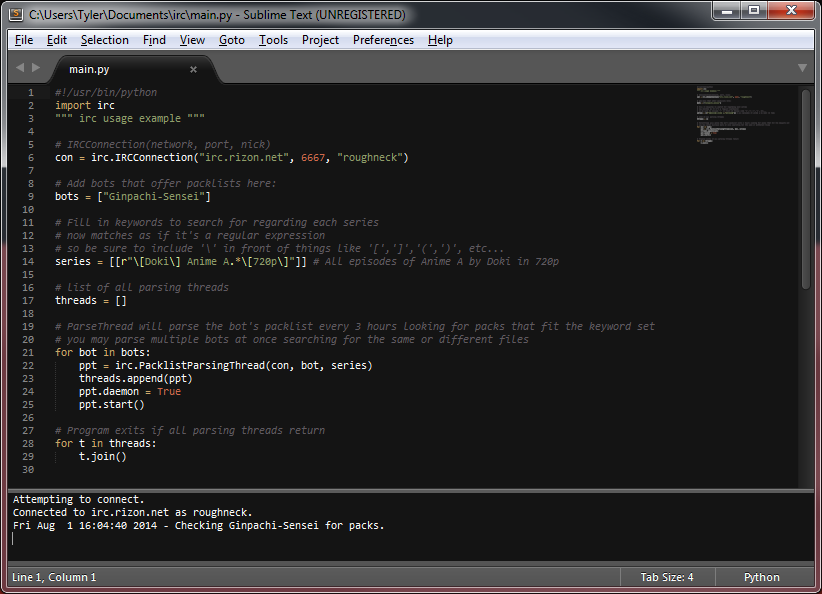
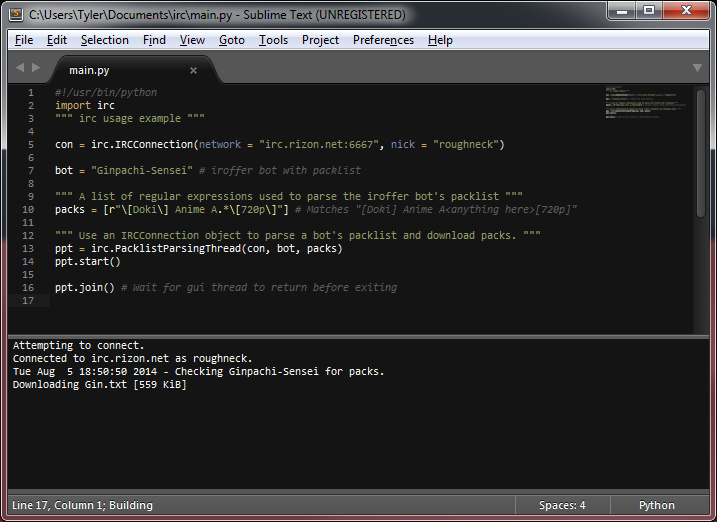
Reworked some things to make usage simpler.

Changed region(s): [[0.0, 0.0, 1.0, 1.0], [0.6137, 0.2452, 0.7057, 0.3065], [0.5523, 0.2759, 0.583, 0.3065]]

diff --git a/main.py b/main.py
@@ -2,28 +2,15 @@
 import irc
 """ irc usage example """
 
-# IRCConnection(network, port, nick)
-con = irc.IRCConnection("irc.rizon.net", 6667, "roughneck")
+con = irc.IRCConnection(network = "irc.rizon.net:6667", nick = "roughneck")
 
-# Add bots that offer packlists here:
-bots = ["Ginpachi-Sensei"]
+bot = "Ginpachi-Sensei" # iroffer bot with packlist
 
-# Fill in keywords to search for regarding each series
-# now matches as if it's a regular expression
-# so be sure to include '\' in front of things like '[',']','(',')', etc...
-series = [[r"\[Doki\] Anime A.*\[720p\]"]] # All episodes of Anime A by Doki in 720p
+""" A list of regular expressions used to parse the iroffer bot's packlist """
+packs = [r"\[Doki\] Anime A.*\[720p\]"] # Matches "[Doki] Anime A<anything here>[720p]"
 
-# list of all parsing threads
-threads = []
+""" Use an IRCConnection object to parse a bot's packlist and download packs. """
+ppt = irc.PacklistParsingThread(con, bot, packs)
+ppt.start()
 
-# ParseThread will parse the bot's packlist every 3 hours looking for packs that fit the keyword set
-# you may parse multiple bots at once searching for the same or different files
-for bot in bots:
-    ppt = irc.PacklistParsingThread(con, bot, series)
-    threads.append(ppt)
-    ppt.daemon = True
-    ppt.start()
-
-# Program exits if all parsing threads return
-for t in threads:
-    t.join()
+ppt.join() # Wait for gui thread to return before exiting

diff --git a/main-gui.py b/main-gui.py
@@ -2,23 +2,16 @@
 import irc
 """ irc usage example """
 
-# IRCConnection(network, port, nick, gui)
-con = irc.IRCConnection("irc.rizon.net", 6667, "roughneck", gui = True)
+con = irc.IRCConnection(network = "irc.rizon.net:6667", nick = "roughneck", gui = True)
 
-# Add bots that offer packlists here:
-bots = ["Ginpachi-Sensei"]
+bot = "Ginpachi-Sensei" # iroffer bot with packlist
 
-# Fill in keywords to search for regarding each series
-# now matches as if it's a regular expression
-# so be sure to include '\' in front of things like '[',']','(',')', etc...
-series = [[r"\[Doki\] Anime A.*\[720p\]"]] # All episodes of Anime A by Doki in 720p
+""" A list of regular expressions used to parse the iroffer bot's packlist """
+packs = [r"\[Doki\] Anime A.*\[720p\]"] # Matches "[Doki] Anime A<anything here>[720p]"
 
-# ParseThread will parse the bot's packlist every 3 hours looking for packs that fit the keyword set
-# you may parse multiple bots at once searching for the same or different files
-for bot in bots:
-    ppt = irc.PacklistParsingThread(con, bot, series)
-    ppt.daemon = True
-    ppt.start()
+""" Use an IRCConnection object to parse a bot's packlist and download packs. """
+ppt = irc.PacklistParsingThread(con, bot, packs)
+ppt.daemon = True # Exits if main thread exits
+ppt.start()
 
-# Program exits if IRCWindow thread returns
-con.gui.join()
+con.gui.join() # Wait for gui thread to return before exiting

diff --git a/irc.py b/irc.py
@@ -411,9 +411,8 @@ class PacklistParsingThread(Thread):
                 try:
                     (self.pack, self.dls, self.size, self.name) = [t(s) for t,s in zip((str,int,str,str),
                     search(r"(\S+) +(\d+)x \[([^\[^\]]+)\] ([^\"^\n]+)", line).groups())]
-                    for kw in series:
-                        if not search(kw, self.name):
-                            raise Exception("regex failure")
+                    if not search(series, self.name):
+                        raise Exception("regex failure")
                     self.checkCandidate()
                 except:
                     continue
@@ -449,8 +448,14 @@ class IRCConnection:
     It starts a ListenerThread so it doesn't have
     to worry about 'blocking' recv calls.
     """
-    def __init__(self, network, port, nick, gui=False):
-        self.host, self.port = network, port
+    def __init__(self, network, nick, gui = False):
+        port_regex = search(r":([0-9]+)\Z", network).group(1)
+        if port_regex:
+            self.host = network[:-(len(port_regex)+1)]
+            self.port = int(port_regex)
+        else:
+            self.host = network
+            self.port = 6667
         self.nick = self.ident = self.realname = nick
         self.gui = gui
         if gui:

diff --git a/tests.py b/tests.py
@@ -20,9 +20,9 @@ def test_cs():
 def test_packlist():
     if isfile('xdcc.txt'):
         remove('xdcc.txt')
-    con = IRCConnection("didyouseeitornot.com", 6667, "test-roughneck")
+    con = IRCConnection("didyouseeitornot.com:6667", "test-roughneck")
     bot = "xdcc"
-    series = [[r'a file that doesnt exist']]
+    series = [r'a file that doesnt exist']
     def kill():
         ppt.kill()
     ppt = PacklistParsingThread(con, bot, series, 30, kill)
@@ -38,9 +38,9 @@ def test_packlist():
 def test_parsing():
     if isfile('test.txt'):
         remove('test.txt')
-    con = IRCConnection("didyouseeitornot.com", 6667, "test-roughneck2")
+    con = IRCConnection("didyouseeitornot.com:6667", "test-roughneck2")
     bot = "xdcc"
-    series = [[r'test\.txt']]
+    series = [r'test\.txt']
     def kill():
         ppt.kill()
     ppt = PacklistParsingThread(con, bot, series, 30, kill)
